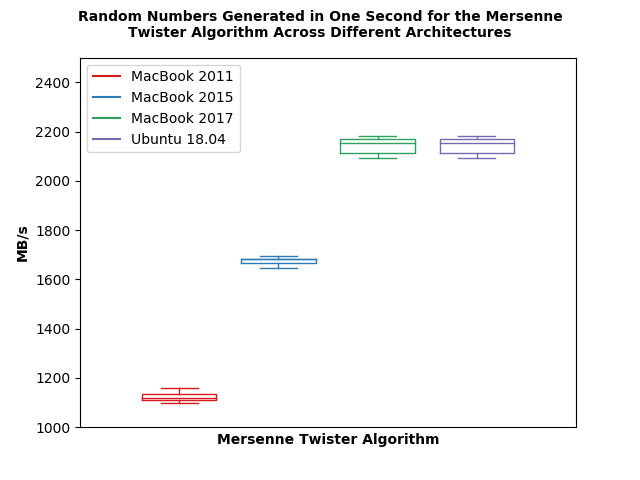
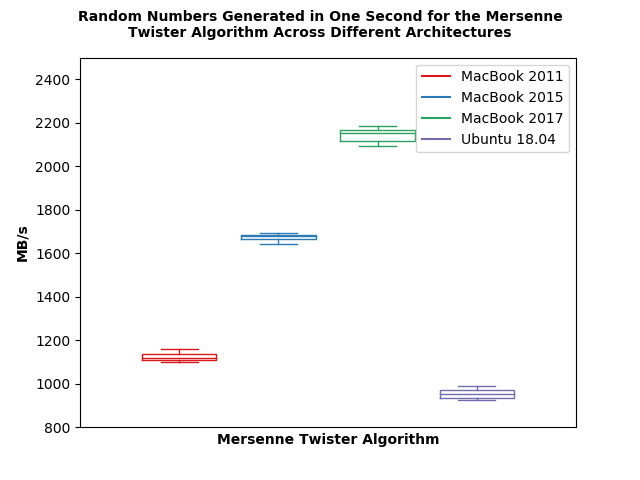
Edits to graphing scripts and outputs

diff --git a/Graphing/graph_shootout_boxplots.py b/Graphing/graph_shootout_boxplots.py
@@ -24,10 +24,10 @@ em_data_xoro = em_data_df['Xoroshiro 128+']
 em_data_xorsh = em_data_df['Xorshift 128+']
 em_data_spcg = em_data_df['SPCG64']
 
-agni_data_mt = r_data_df['Mersenne Twister']
-agni_data_xoro = r_data_df['Xoroshiro 128+']
-agni_data_xorsh = r_data_df['Xorshift 128+']
-agni_data_spcg = r_data_df['SPCG64']
+agni_data_mt = agni_data_df['Mersenne Twister']
+agni_data_xoro = agni_data_df['Xoroshiro 128+']
+agni_data_xorsh = agni_data_df['Xorshift 128+']
+agni_data_spcg = agni_data_df['SPCG64']
 
 
 mt_data_a = [r_data_mt.values]
@@ -86,7 +86,7 @@ plt.legend()
 
 plt.xticks(range(0, 0,1), ticks)
 plt.xlim(-2, len(ticks)*2)
-plt.ylim(1000, 2500)
+plt.ylim(800, 2500)
 plt.ylabel("MB/s",fontweight='bold')
 plt.xlabel("Mersenne Twister Algorithm",fontweight='bold')
 fig.suptitle("\n".join(wrap('Random Numbers Generated in One Second for the Mersenne Twister Algorithm Across Different Architectures', 60)), fontsize=10, fontweight='bold')
@@ -98,9 +98,9 @@ ticks = ['Xoroshiro']
 
 fig = plt.figure()
 
-bpl = plt.boxplot(xoro_data_a, positions=np.array(range(len(xoro_data_a)))*2.0-1.2, sym='', widths=0.6)
+bpl = plt.boxplot(xoro_data_c, positions=np.array(range(len(xoro_data_c)))*2.0-1.2, sym='', widths=0.6)
 bpr = plt.boxplot(xoro_data_b, positions=np.array(range(len(xoro_data_b)))*2.0-0.4, sym='', widths=0.6)
-bps = plt.boxplot(xoro_data_c, positions=np.array(range(len(xoro_data_c)))*2.0+0.4, sym='', widths=0.6)
+bps = plt.boxplot(xoro_data_a, positions=np.array(range(len(xoro_data_a)))*2.0+0.4, sym='', widths=0.6)
 bpt = plt.boxplot(xoro_data_d, positions=np.array(range(len(xoro_data_d)))*2.0+1.2, sym='', widths=0.6)
 
 set_box_color(bpl, '#D7191C') # colors are from http://colorbrewer2.org/

diff --git a/Graphing/graph_shootout_bar_charts.py b/Graphing/graph_shootout_bar_charts.py
@@ -2,25 +2,16 @@ import pandas as pd
 import matplotlib.pyplot as plt
 import numpy as np
 
-r_data_df = pd.read_csv('Shootout_Mac2017.csv')
-em_data_df = pd.read_csv('Shootout_Emily.csv')
-aishah_data_df = pd.read_csv('Shootout_Aishah_Mac2011.csv')
-agni_data_df = pd.read_csv('Shootout_Agni.csv')
+r_data_df = pd.read_csv('./Shootout Data/Shootout_Mac2017.csv')
+em_data_df = pd.read_csv('./Shootout Data/Shootout_Emily.csv')
+aishah_data_df = pd.read_csv('./Shootout Data/Shootout_Aishah_Mac2011.csv')
+agni_data_df = pd.read_csv('./Shootout Data/Shootout_Agni.csv')
 
 df = pd.concat([r_data_df.mean(),em_data_df.mean(),aishah_data_df.mean(),agni_data_df.mean()],axis=1).T
 
-print(df)
-
-#raw_data = {'first_name': ['Jason', 'Molly', 'Tina', 'Jake', 'Amy'],
-# 'pre_score': [4, 24, 31, 2, 3],
-#    'mid_score': [25, 94, 57, 62, 70],
-#   'post_score': [5, 43, 23, 23, 51]}
-#df = pd.DataFrame(raw_data, columns = ['first_name', 'pre_score', 'mid_score', 'post_score'])
 
 # Setting the positions and width for the bars
-#pos = list(range(len(df['pre_score'])))
 pos = list(range(len(df['Mersenne Twister'])))
-print(pos)
 width = 0.2
 
 # Plotting the bars
@@ -96,7 +87,7 @@ ax.set_xticklabels(['MacBook 2017','MacBook 2015','MacBook 2011','Ubuntu 18.04']
 
 # Setting the x-axis and y-axis limits
 plt.xlim(min(pos)-width, max(pos)+width*4)
-plt.ylim([0, max(df['Mersenne Twister'] + df['SPCG64'] + df['Xoroshiro 128+'] + df['Xorshift 128+'])] )
+plt.ylim([0, 10000] )
 
 # Adding the legend and showing the plot
 plt.legend(['Mersenne Twister', 'SPCG64', 'Xoroshiro 128+','Xorshift 128+'], loc='upper left')
